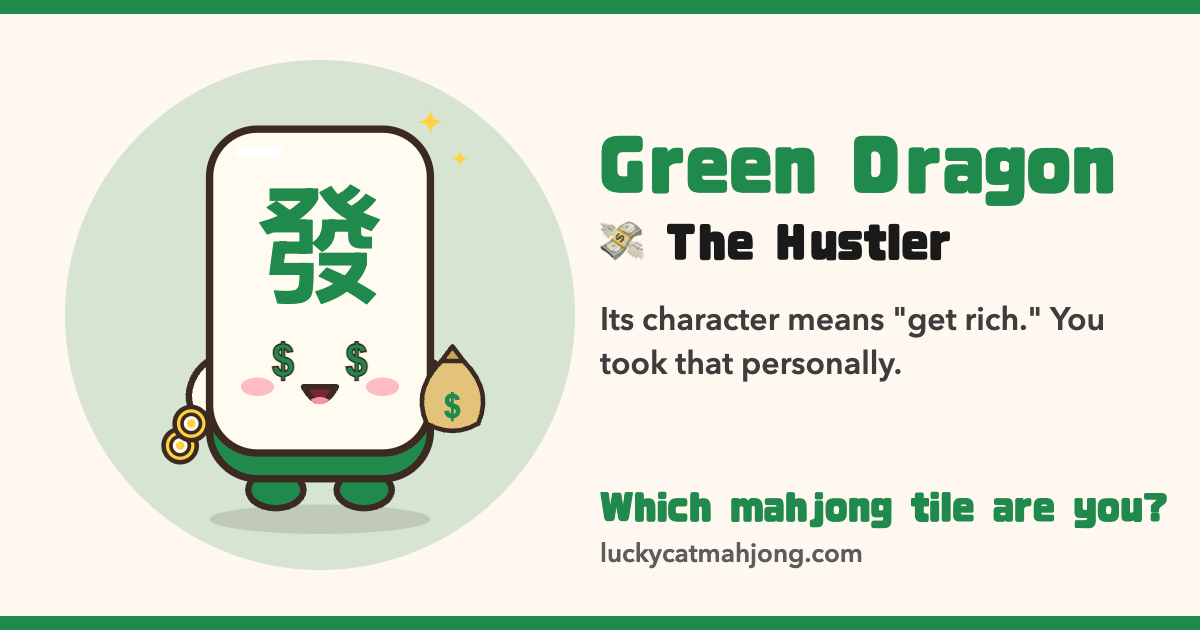
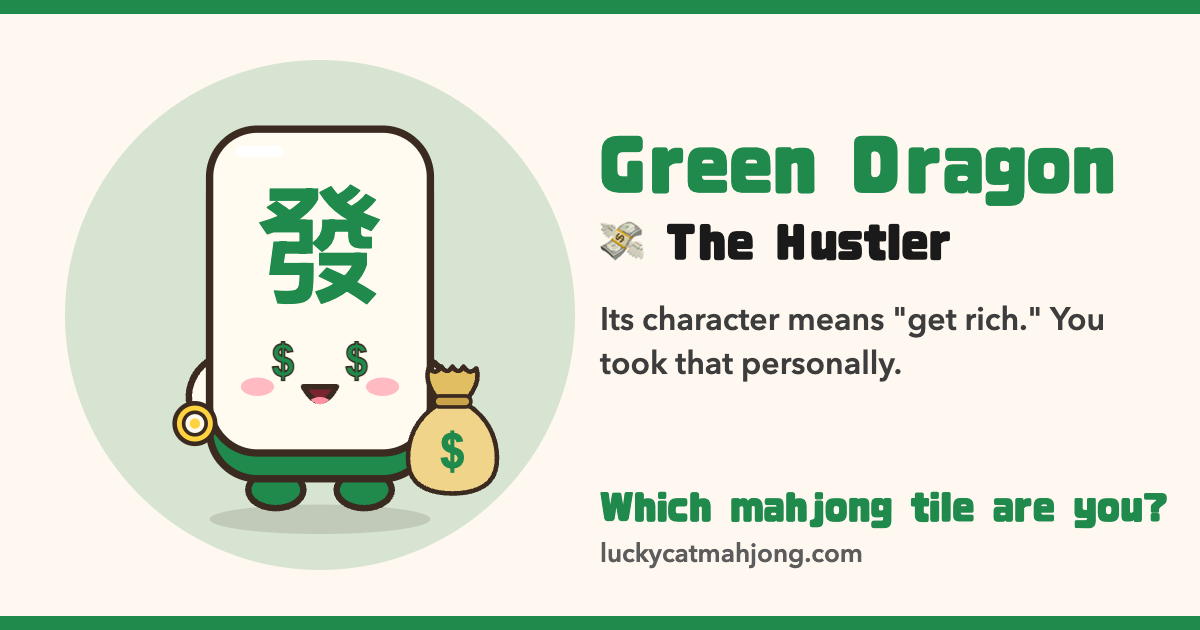
Redraw the green dragon's money bag as a normal tied sack
A pear-shaped sack with a cinched neck and ruffled top replaces the
oval with bow loops, in the quiz art and the tile's link preview.

diff --git a/js/tile-quiz-art.js b/js/tile-quiz-art.js
@@ -356,15 +356,12 @@
         '<path d="M164 20 q4 -8 8 0 t8 0 q-6 6 -10 0 q-4 -4 -2 4" fill="none" stroke="' + RED + '" stroke-width="2" stroke-linecap="round"/>';
     },
     moneyBag: function () {
-      // Round cloth sack, tied with a bow, and one coin in the other hand.
-      return '<ellipse cx="174" cy="196" rx="24" ry="22" fill="#F0D48A" ' + stroke(2.5) + '/>' +
-        '<path d="M160 184 C158 172 164 164 174 162 C184 164 190 172 188 184Z" fill="#F0D48A" ' + stroke(2.5) + '/>' +
-        '<path d="M162 182 Q174 190 186 182" fill="none" stroke="#C9A24A" stroke-width="2.5" stroke-linecap="round"/>' +
-        '<ellipse cx="164" cy="170" rx="8" ry="5" transform="rotate(-28 164 170)" fill="#E2BE62" ' + stroke(2) + '/>' +
-        '<ellipse cx="184" cy="170" rx="8" ry="5" transform="rotate(28 184 170)" fill="#E2BE62" ' + stroke(2) + '/>' +
-        '<circle cx="174" cy="174" r="3.2" fill="#C9A24A" ' + stroke(1.6) + '/>' +
-        '<path d="M170 176 L164 186 M178 176 L184 186" fill="none" ' + stroke(2) + '/>' +
-        '<text x="174" y="204" font-size="20" font-weight="800" text-anchor="middle" fill="' + GREEN + '" font-family="Arial,sans-serif">$</text>' +
+      // A pear-shaped sack, cinched at the neck with a ruffled top, and one
+      // coin in the other hand.
+      return '<path d="M165 173 C150 182 147 196 148 206 C149 218 160 222 172 222 C184 222 195 218 196 206 C197 196 194 182 179 173Z" fill="#F0D48A" ' + stroke(2.5) + '/>' +
+        '<path d="M165 172 C160 166 157 160 159 154 Q163 158 166 153 Q169 158 172 153 Q175 158 178 153 Q181 158 185 154 C187 160 184 166 179 172Z" fill="#E2BE62" ' + stroke(2.5) + '/>' +
+        '<rect x="162" y="169" width="20" height="6" rx="3" fill="#C9A24A" ' + stroke(2) + '/>' +
+        '<text x="172" y="208" font-size="26" font-weight="800" text-anchor="middle" fill="' + GREEN + '" font-family="Arial,sans-serif">$</text>' +
         coin(32, 184, 11, '#FFD23F');
     },
     shades: function () {
